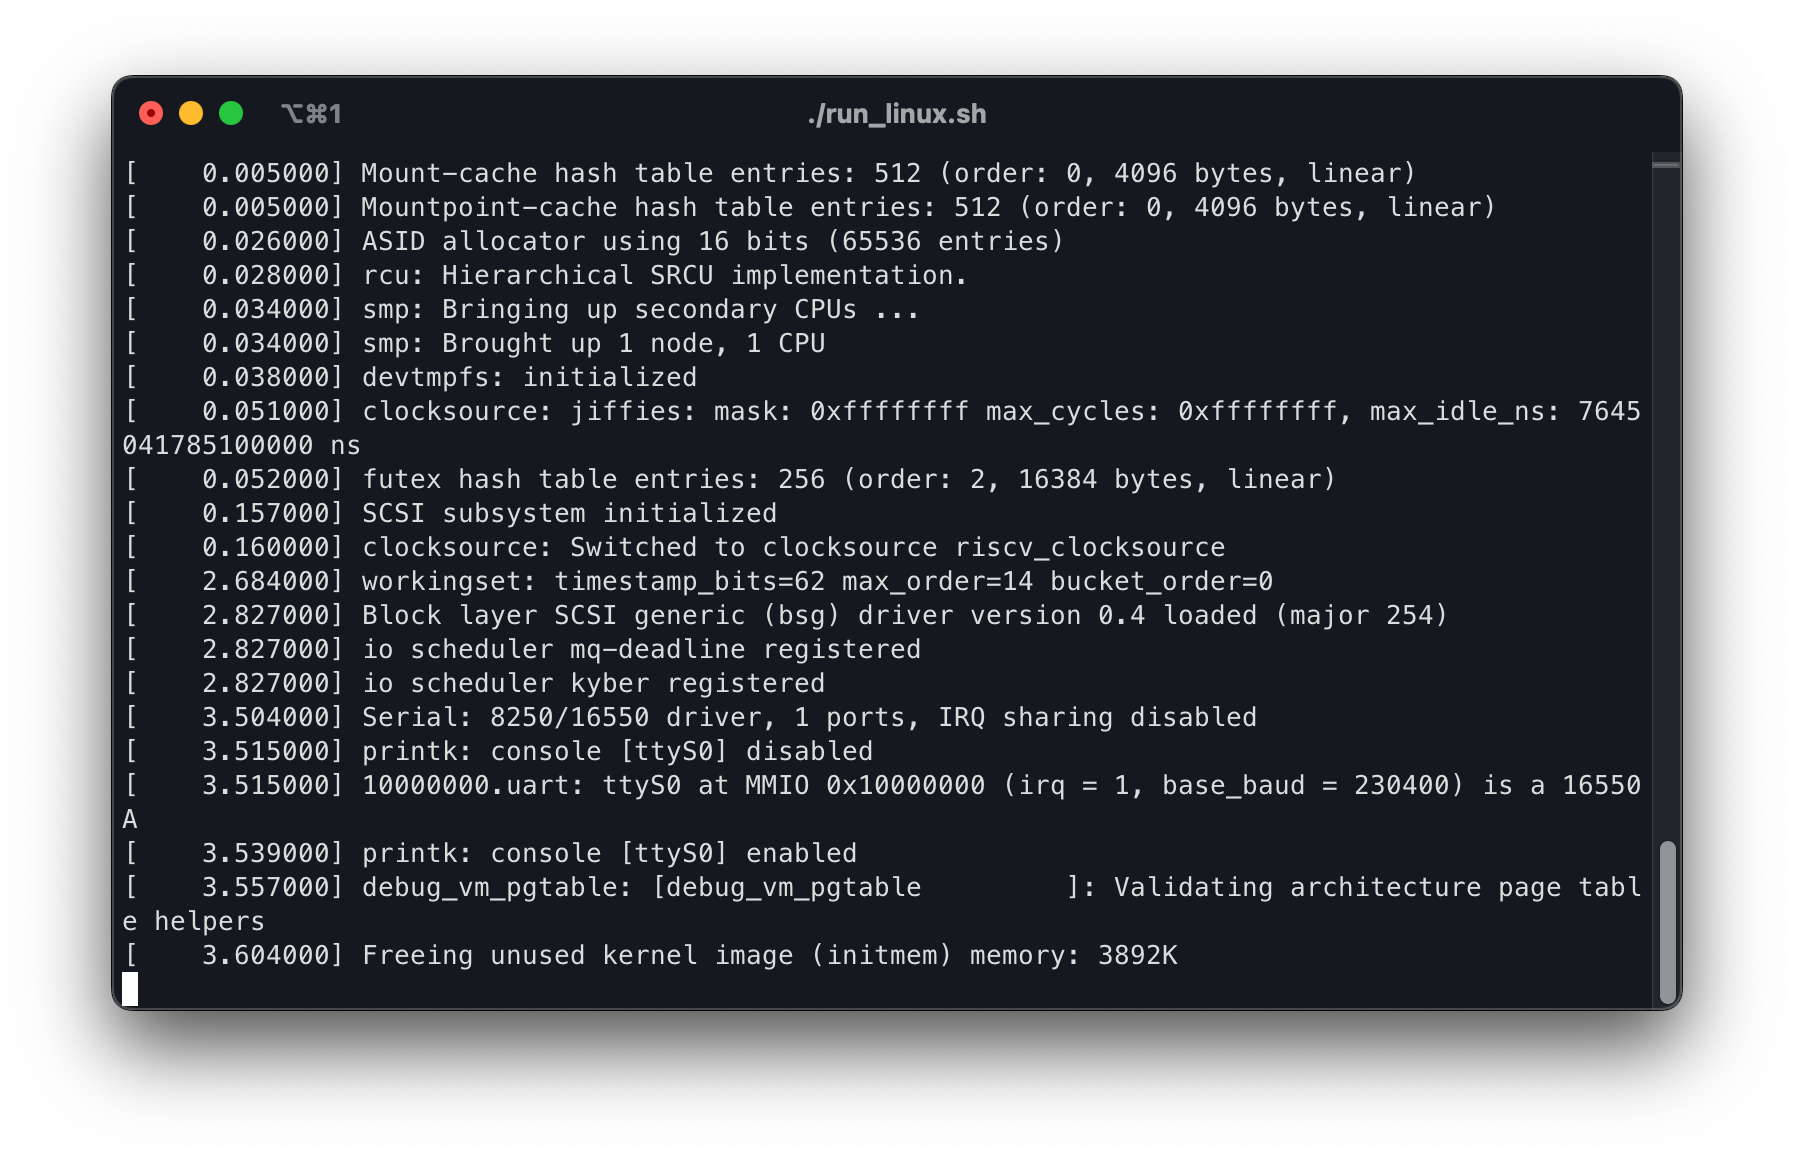
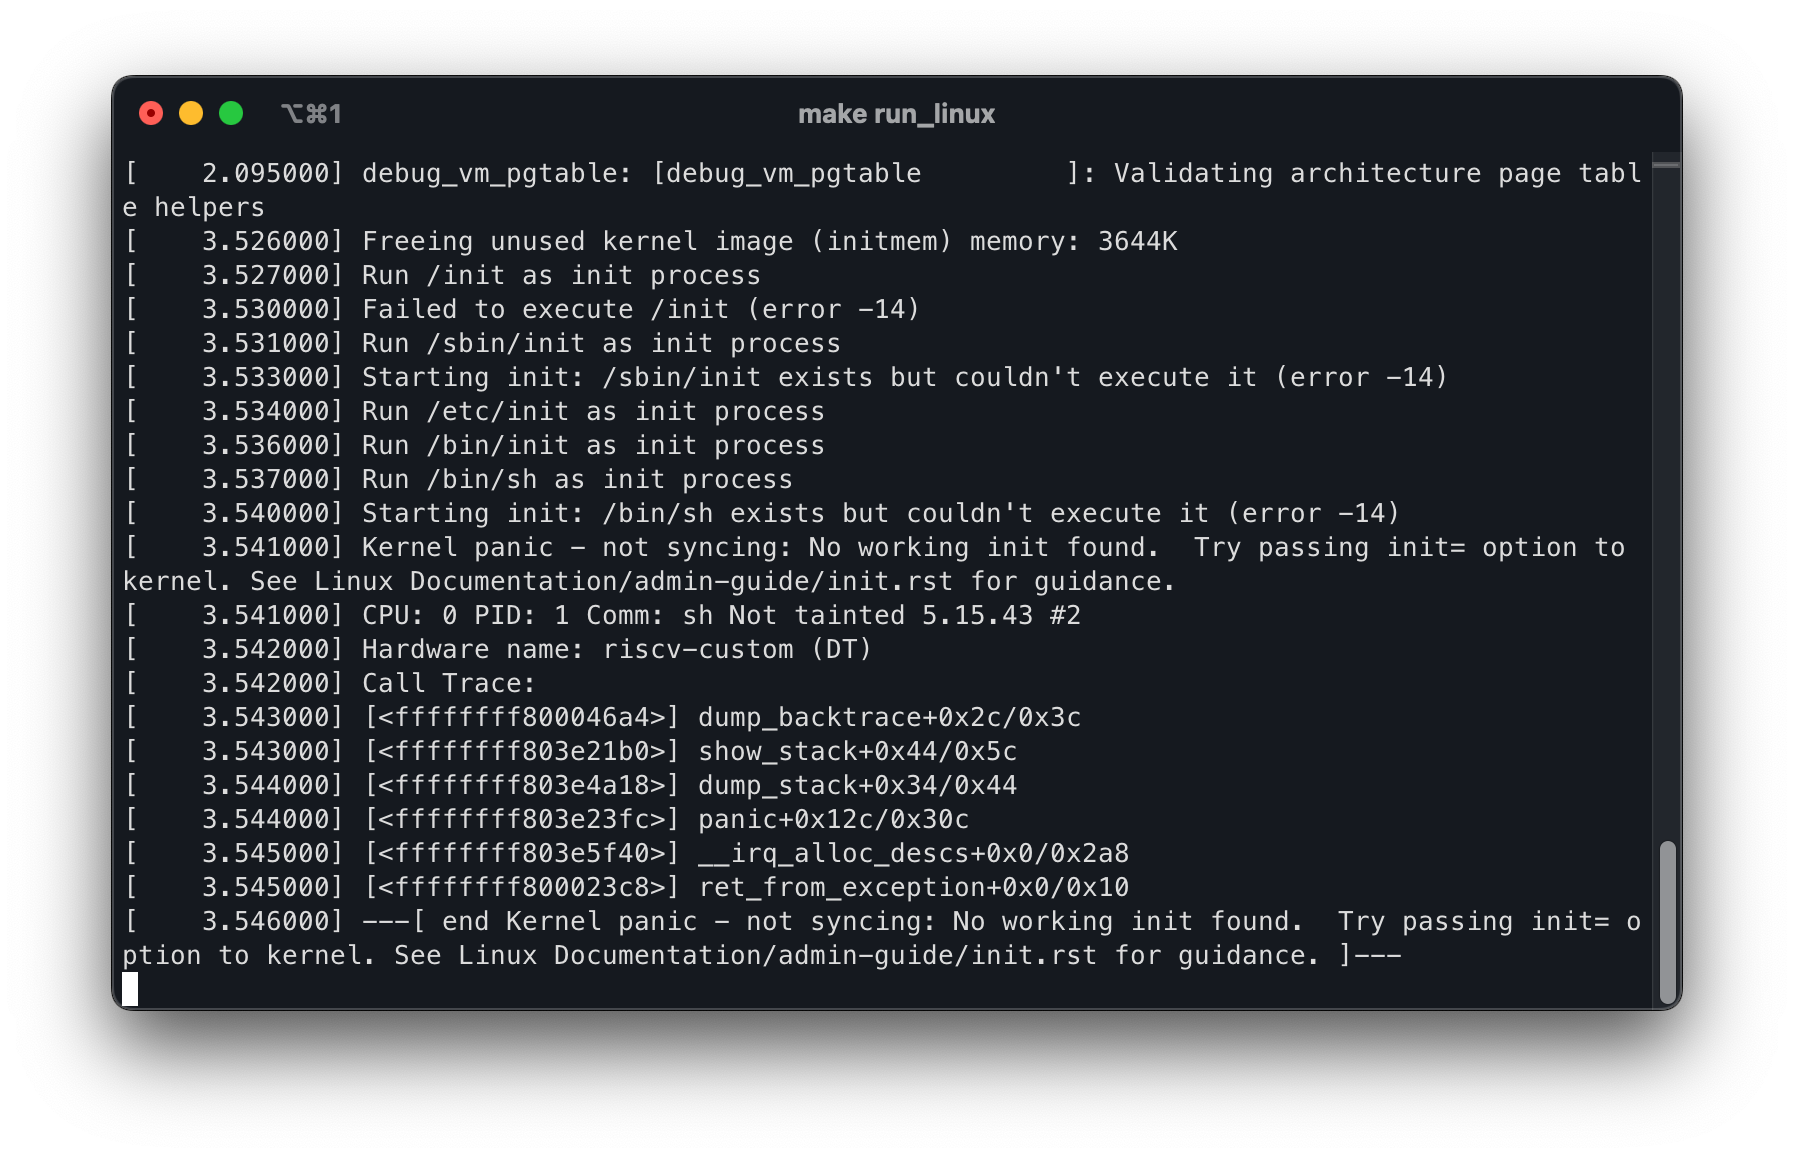
Updates

diff --git a/README.md b/README.md
@@ -32,13 +32,12 @@ make linux
 
 Then, run it via the following command:
 ```bash
-cd output/
-./run_linux.sh
+make run_linux
 ```
 
-When the emulator is compiled using the Native CLI flag, it results in faster load times for Linux.
+When the emulator is compiled using the Native CLI flag, it results in faster boot times for Linux.
 
-Currenly, the kernel gets stuck during initalization at `Freeing unused kernel image (initmem) memory`. The kernel itself is not frozen, but it's unclear why it doesn't schedule init as of now.
+Currenly, a page fault happens when the kernel tries to initialize userspace for init. It is still unknow why this is happening.
 
 ## DOOM Port
 
@@ -51,8 +50,7 @@ make doom_baremetal
 
 Next, to run the port, use the following command: 
 ```bash
-cd output/
-./doom_baremetal.sh
+make run_doom_baremetal
 ```
 
 Please note that this will not work if the emulator was compiled with the Native CLI flag.
